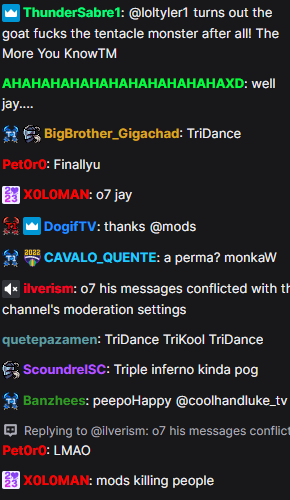
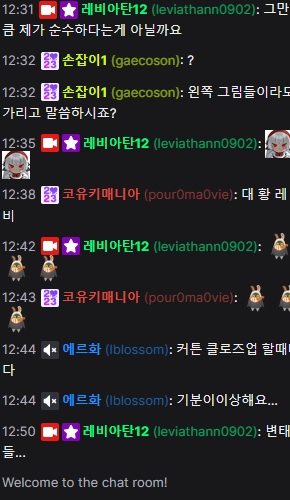
create git ignore

Changed region(s): [[0.0, 0.0, 1.0, 0.99], [0.8379, 0.36, 0.931, 0.42], [0.9621, 0.36, 0.9931, 0.42]]

diff --git a/main.py b/main.py
@@ -5,42 +5,57 @@ import pyscreenshot as GetImage
 import schedule
 from paddleocr import PaddleOCR, draw_ocr
 from PIL import Image
+import deepl
+
+
+
+OCR = 0
+TRANSLATOR = 0
 
 def triggerScreenshot():
     name = f"image"
     screenshot = GetImage.grab()
     w, h = screenshot.size
-    dimensions = (w-325, h-600, w-35, h-100)
+    dimensions = (w-325, h-600, w-15, h-150)
     cropped = screenshot.crop(dimensions)
     path = f"./screenshots/{name}.png"
     cropped.save(path)
     
     
-
-    ocr = PaddleOCR(lang="en")
-    scraped = ocr.ocr(".\\screenshots\\image.png")
+    scraped = OCR.ocr(".\\screenshots\\image.png")
     for line in scraped[0]:
         parsedText = line[1][0]
         splitText = parsedText.split(":")
+        user = ""
         textToTranslate = ""
         if(len(splitText) == 1):
             textToTranslate = splitText[0]
         else:
             textToTranslate = splitText[1]
-
-
+        print(textToTranslate)
+        if textToTranslate != "":
+            translatedText = TRANSLATOR.translate_text(textToTranslate, target_lang="EN-US")
+        print(translatedText)
+        print("------")
     return path
 
 
+    
+
 def main():
     
+
+    global OCR
+    global TRANSLATOR
+
+    OCR = PaddleOCR(lang="korean")
+    auth=""
+    TRANSLATOR = deepl.Translator(auth)
     schedule.every(5).seconds.do(triggerScreenshot)
 
     while True:
         schedule.run_pending()
         time.sleep(1)
-
-
 
 if __name__ == "__main__":
     main()
